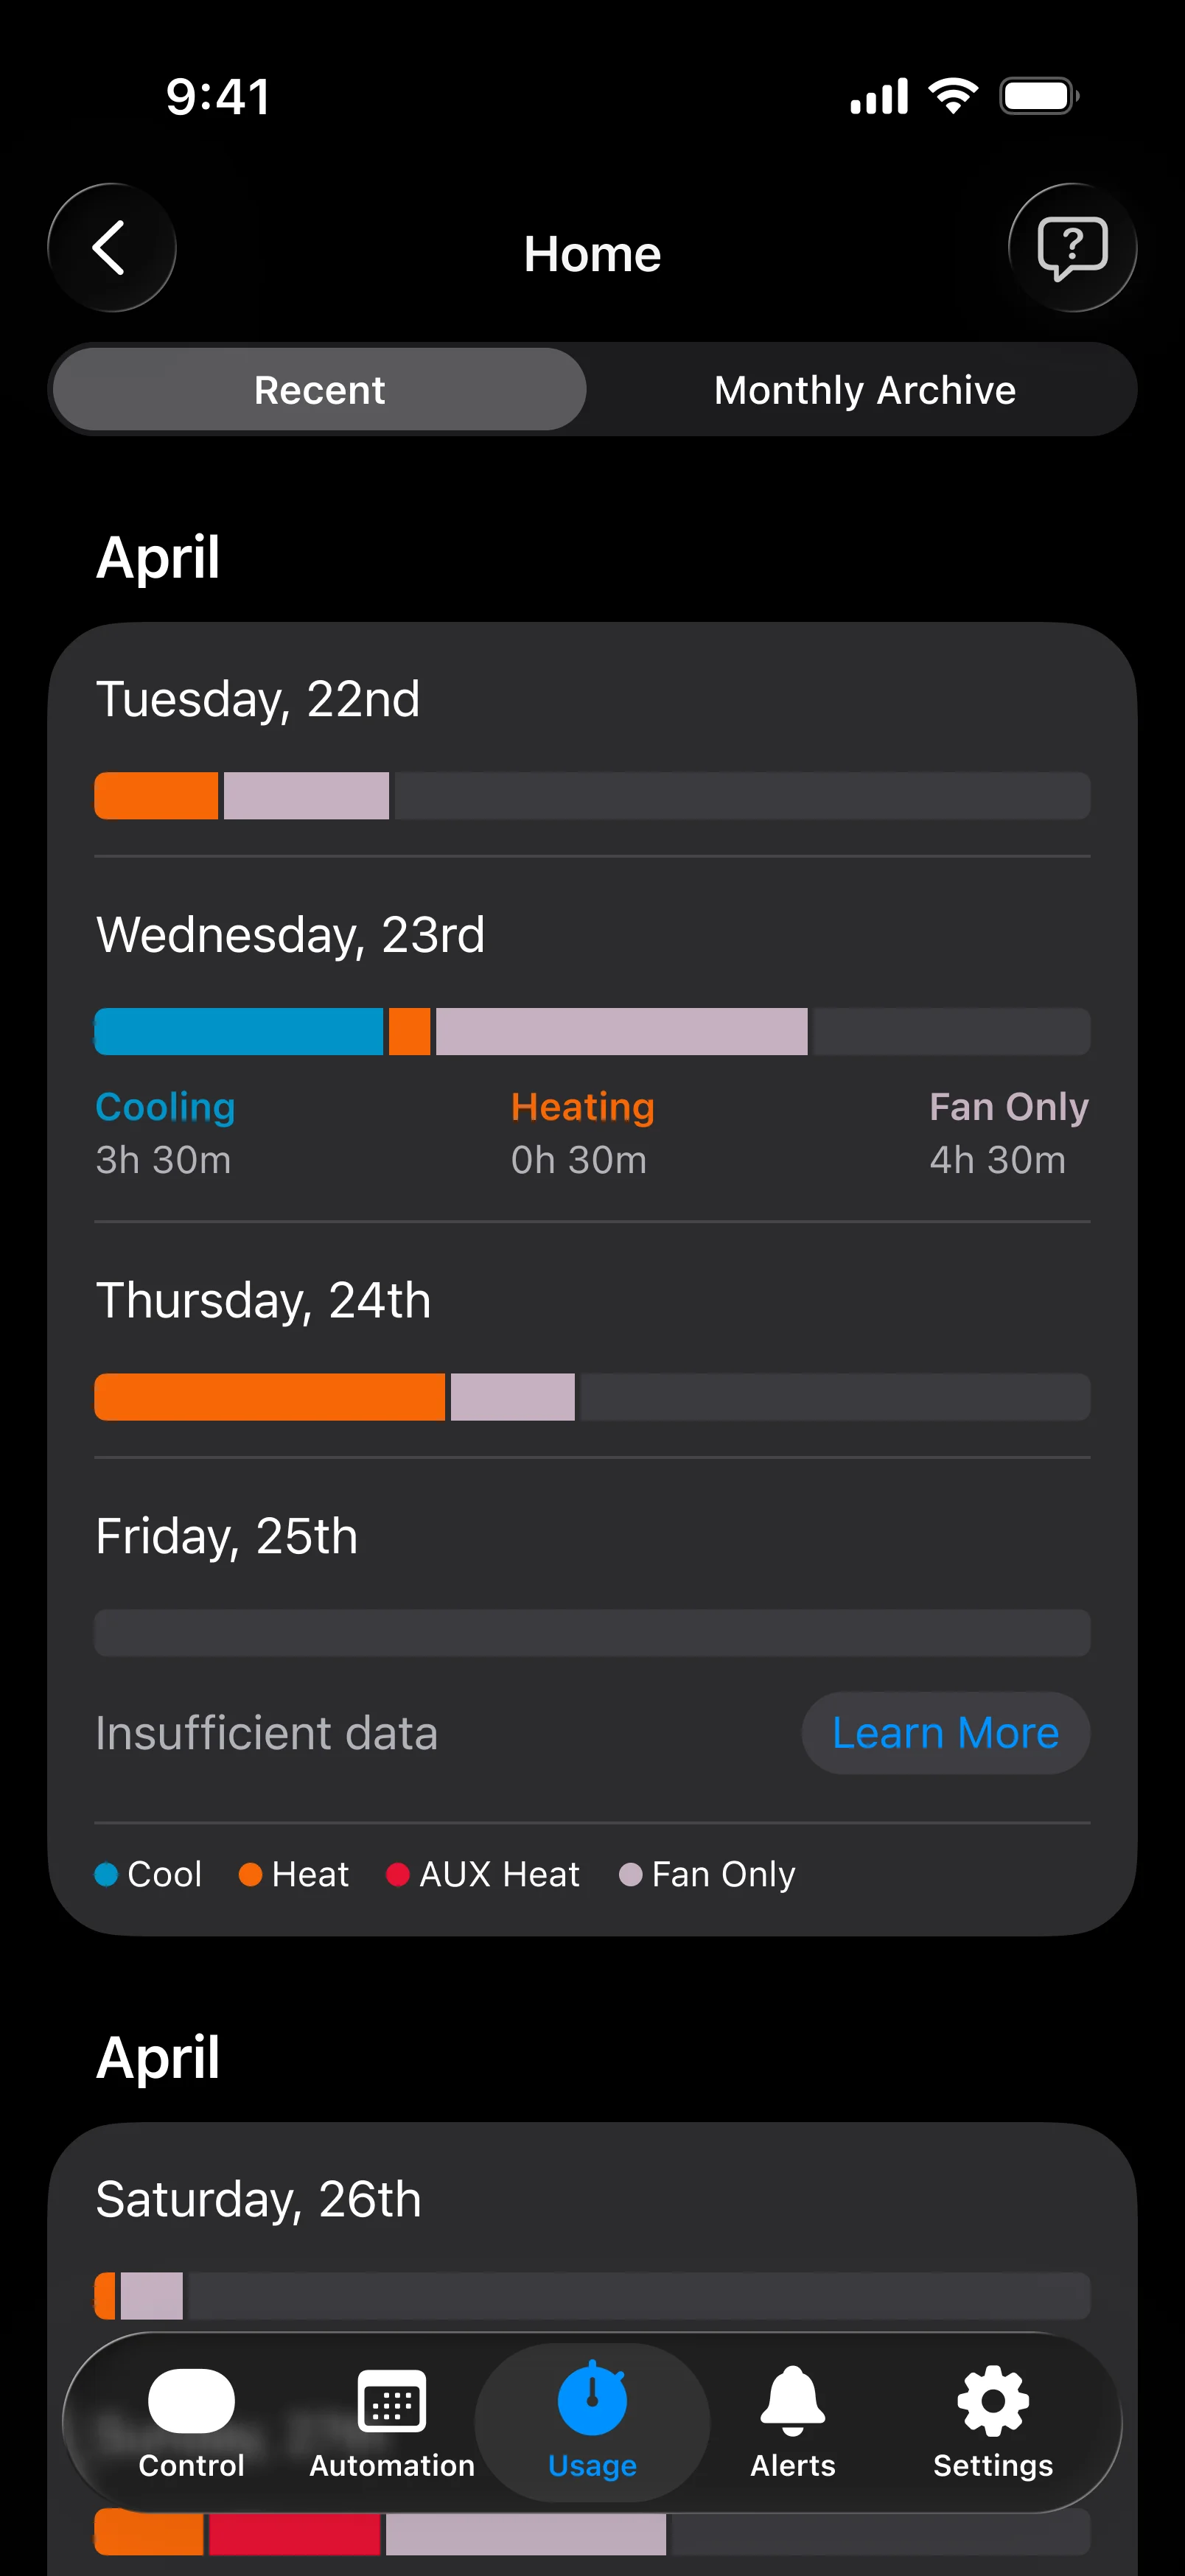
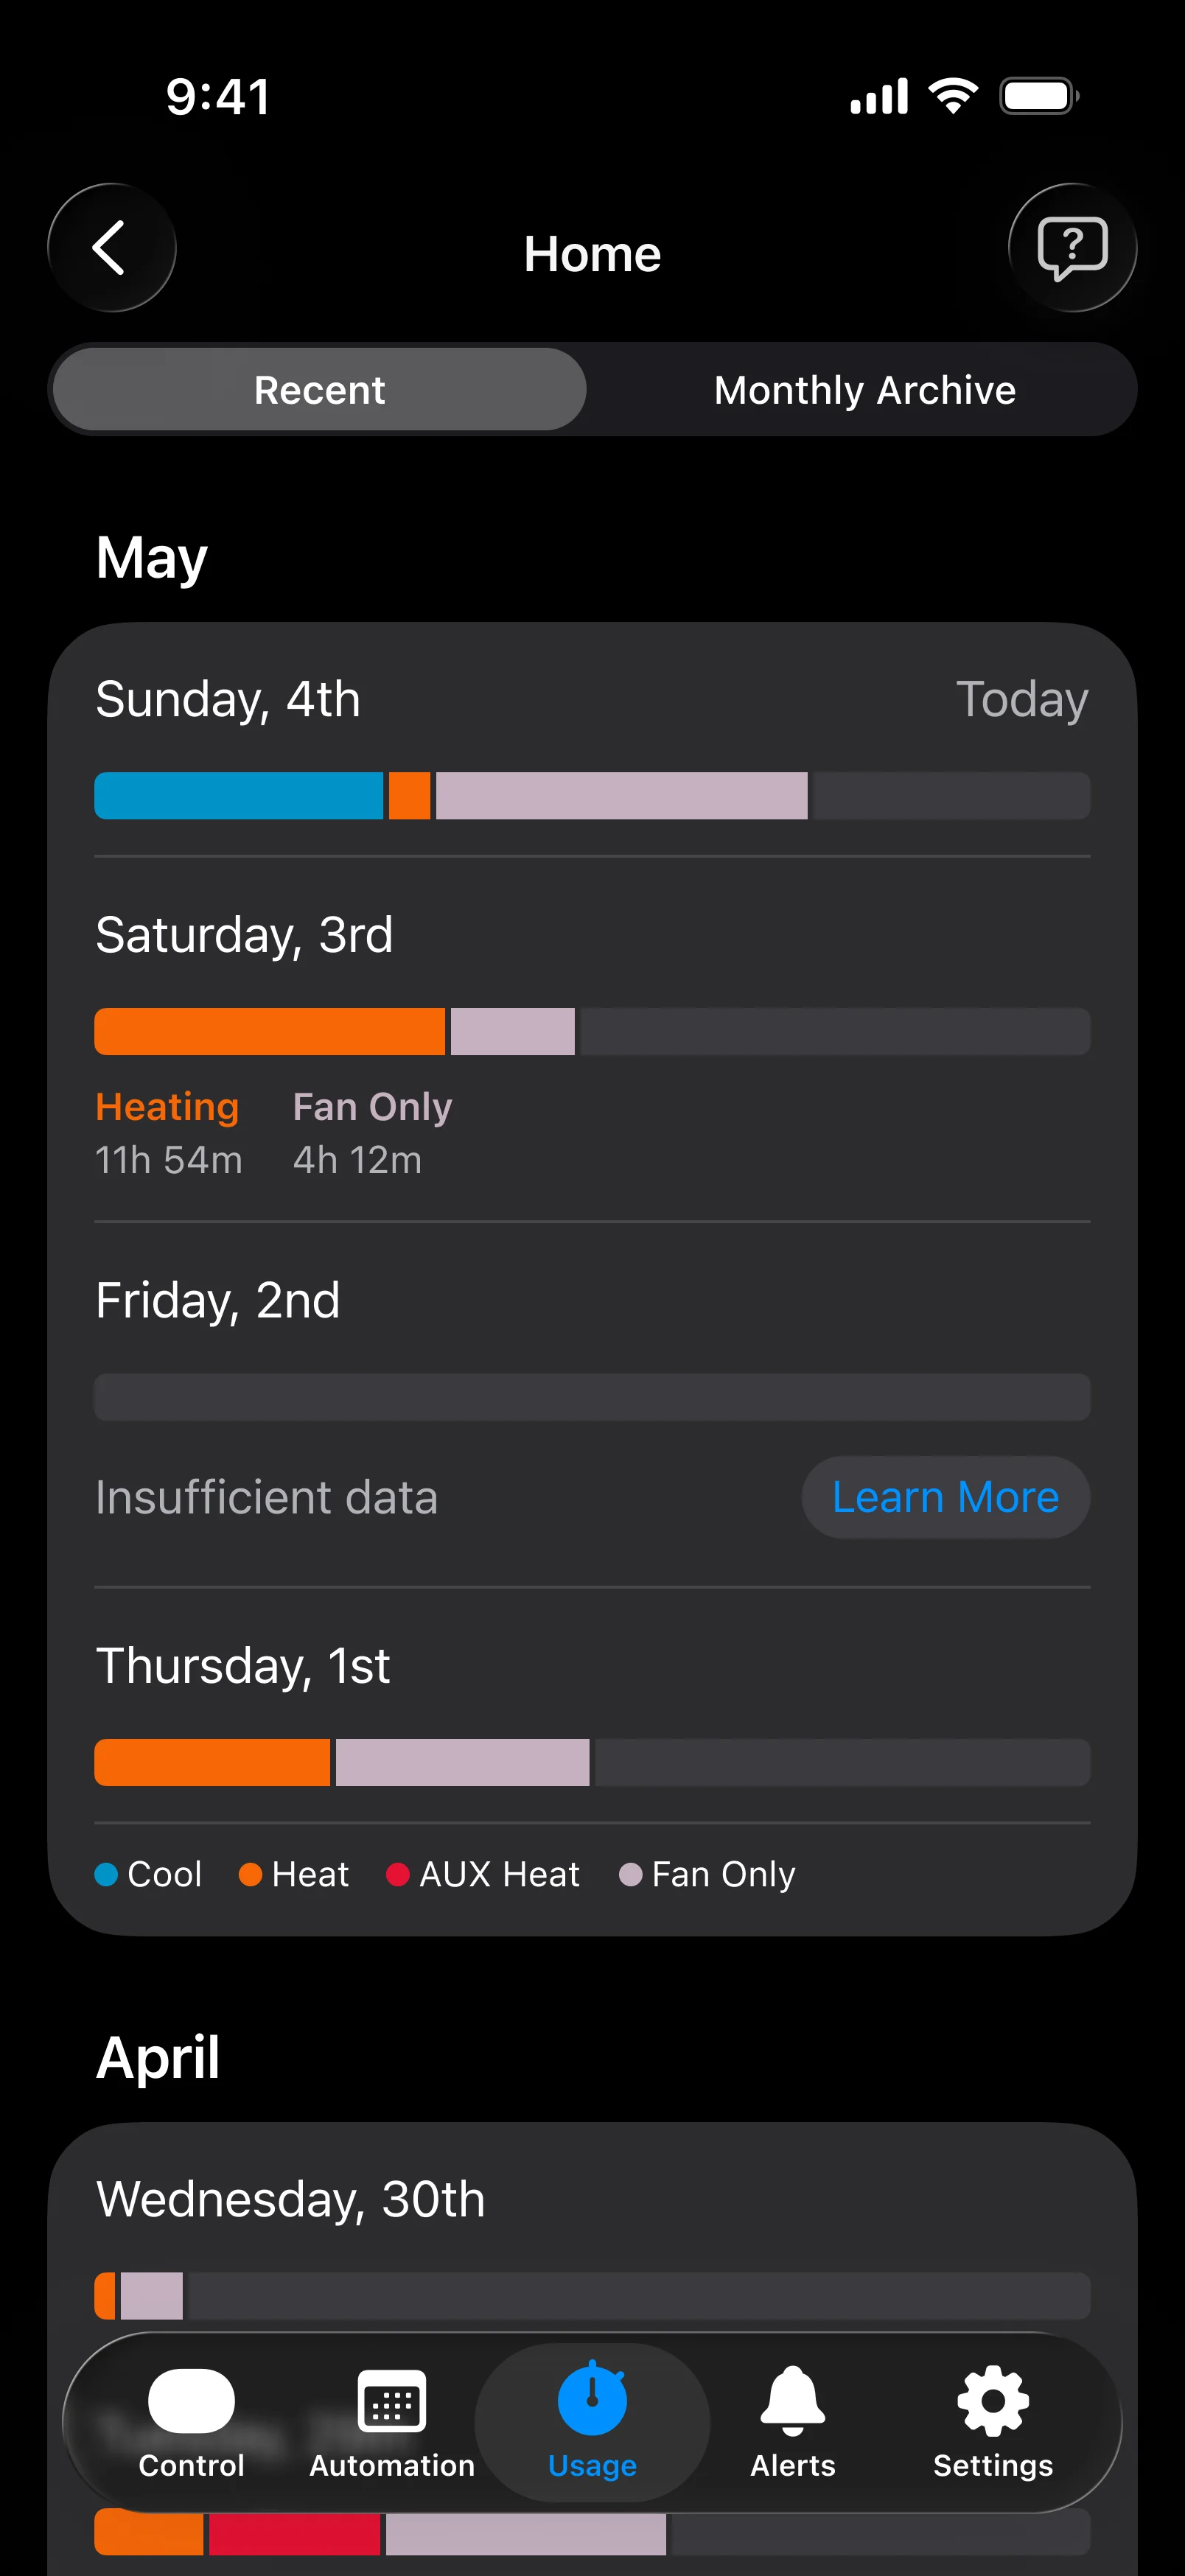
Add Android screenshots to phone carousel and fix autoplay timer resets.
Wire optimized Android screen assets, drop Offline from rotation, regenerate iOS Usage WebPs, and restart the screenshot timer on theme toggle and when a phone swap animation completes.

diff --git a/lib/phone-swap/phoneScreenshotSlides.ts b/lib/phone-swap/phoneScreenshotSlides.ts
@@ -21,8 +21,8 @@ export const PHONE_SCREENSHOT_SLIDES: readonly PhoneScreenshotSlide[] = [
     id: 'dashboard',
     label: 'Dashboard',
     android: {
-      light: '/models/Android.png',
-      dark: '/models/Android.png',
+      light: '/Screens/Android/Dashboard_light-optimized.webp',
+      dark: '/Screens/Android/Dashboard_dark-optimized.webp',
     },
     iphone: {
       light: '/Screens/iOS/Dashboard_light-optimized.webp',
@@ -33,8 +33,8 @@ export const PHONE_SCREENSHOT_SLIDES: readonly PhoneScreenshotSlide[] = [
     id: 'usage',
     label: 'Usage',
     android: {
-      light: '/models/Android.png',
-      dark: '/models/Android.png',
+      light: '/Screens/Android/Usage_light-optimized.webp',
+      dark: '/Screens/Android/Usage_dark-optimized.webp',
     },
     iphone: {
       light: '/Screens/iOS/Usage_light-optimized.webp',
@@ -45,24 +45,12 @@ export const PHONE_SCREENSHOT_SLIDES: readonly PhoneScreenshotSlide[] = [
     id: 'ec',
     label: 'Equipment',
     android: {
-      light: '/models/Android.png',
-      dark: '/models/Android.png',
+      light: '/Screens/Android/EC_light-optimized.webp',
+      dark: '/Screens/Android/EC_dark-optimized.webp',
     },
     iphone: {
       light: '/Screens/iOS/EC_light-optimized.webp',
       dark: '/Screens/iOS/EC_dark-optimized.webp',
-    },
-  },
-  {
-    id: 'offline',
-    label: 'Offline',
-    android: {
-      light: '/models/Android.png',
-      dark: '/models/Android.png',
-    },
-    iphone: {
-      light: '/Screens/iOS/Offline_light-optimized.webp',
-      dark: '/Screens/iOS/Offline_dark-optimized.webp',
     },
   },
 ]

diff --git a/lib/phone-swap/usePhoneScreenshotControls.ts b/lib/phone-swap/usePhoneScreenshotControls.ts
@@ -8,9 +8,16 @@ import {
   type PhoneScreenTheme,
 } from '@/lib/phone-swap/phoneScreenshotSlides'
 import { useTouch2CarouselPlayback } from '@/lib/touch2/useTouch2CarouselPlayback'
-import { useCallback, useEffect, useMemo, useRef, useState } from 'react'
+import { useCallback, useEffect, useMemo, useState } from 'react'
 
-export function usePhoneScreenshotControls() {
+type UsePhoneScreenshotControlsOptions = {
+  animating?: boolean
+}
+
+export function usePhoneScreenshotControls(
+  options: UsePhoneScreenshotControlsOptions = {},
+) {
+  const { animating = false } = options
   const { resolvedTheme } = useTheme()
   const isActive = useChapterActive()
   const [screenTheme, setScreenThemeState] =
@@ -25,20 +32,20 @@ export function usePhoneScreenshotControls() {
   const {
     index: slideIndex,
     selectIndex: selectSlide,
+    resetTimer,
     indicatorProgress,
     pauseHandlers,
-  } = useTouch2CarouselPlayback(slideCount, { isActive })
+  } = useTouch2CarouselPlayback(slideCount, {
+    isActive: isActive && !animating,
+  })
 
   useEffect(() => {
     setScreenThemeState(resolvedTheme)
   }, [resolvedTheme])
 
-  const slideIndexRef = useRef(slideIndex)
-  slideIndexRef.current = slideIndex
-
   useEffect(() => {
-    selectSlide(slideIndexRef.current)
-  }, [screenTheme, selectSlide])
+    resetTimer()
+  }, [screenTheme, resetTimer])
 
   const urls = useMemo(
     () => phoneScreenshotUrls(slideIndex, screenTheme),
@@ -88,5 +95,6 @@ export function usePhoneScreenshotControls() {
     selectSlide,
     toggleScreenTheme,
     setScreenTheme: setScreenThemeExplicit,
+    resetTimer,
   }
 }

diff --git a/lib/touch2/useTouch2CarouselPlayback.ts b/lib/touch2/useTouch2CarouselPlayback.ts
@@ -28,6 +28,7 @@ export function useTouch2CarouselPlayback(
   const [progress, setProgress] = useState(0)
   const [paused, setPaused] = useState(false)
   const [reducedMotion, setReducedMotion] = useState(false)
+  const [playbackEpoch, setPlaybackEpoch] = useState(0)
   const rafRef = useRef(0)
   const elapsedRef = useRef(0)
 
@@ -55,6 +56,12 @@ export function useTouch2CarouselPlayback(
     setProgress(0)
   }, [])
 
+  const resetTimer = useCallback(() => {
+    elapsedRef.current = 0
+    setProgress(0)
+    setPlaybackEpoch((epoch) => epoch + 1)
+  }, [])
+
   const shouldAutoPlay =
     autoPlay && isActive && !paused && !reducedMotion && count > 1
 
@@ -79,7 +86,7 @@ export function useTouch2CarouselPlayback(
 
     rafRef.current = requestAnimationFrame(tick)
     return () => cancelAnimationFrame(rafRef.current)
-  }, [shouldAutoPlay, index, count, autoPlayInterval])
+  }, [shouldAutoPlay, index, count, autoPlayInterval, playbackEpoch])
 
   useEffect(() => {
     if (!isActive || count <= 1) return
@@ -115,6 +122,7 @@ export function useTouch2CarouselPlayback(
   return {
     index,
     selectIndex,
+    resetTimer,
     go,
     reducedMotion,
     indicatorProgress,

diff --git a/components/PhoneSwap.tsx b/components/PhoneSwap.tsx
@@ -80,6 +80,7 @@ export function PhoneSwap({ liveScreen = false }: { liveScreen?: boolean }) {
     clampAnimSettings(DEFAULT_PHONE_SWAP_ANIM),
   )
   const [swapped, setSwapped] = useState(false)
+  const [animating, setAnimating] = useState(false)
   const [layout, setLayout] = useState<PhoneSwapLayout>(() => cloneLayout(PHONE_SWAP_LAYOUT))
   const [editFocus, setEditFocus] = useState<PhoneSwapEditFocus>('androidFocus')
   const [selectedDevice, setSelectedDevice] = useState<PhoneDevice>('android')
@@ -87,7 +88,9 @@ export function PhoneSwap({ liveScreen = false }: { liveScreen?: boolean }) {
   const [showGuides, setShowGuides] = useState(false)
   const topBarNav = useLayoutTopBarNav()
   const chapterActive = useChapterActive()
-  const screenshot = usePhoneScreenshotControls()
+  const screenshot = usePhoneScreenshotControls({ animating })
+  const resetTimerRef = useRef(screenshot.resetTimer)
+  resetTimerRef.current = screenshot.resetTimer
   const sceneLatchedRef = useRef(false)
   if (chapterActive || layoutMode || devToolsEnabled) {
     sceneLatchedRef.current = true
@@ -97,7 +100,6 @@ export function PhoneSwap({ liveScreen = false }: { liveScreen?: boolean }) {
   const [liveSnapshot, setLiveSnapshot] = useState<PhoneSwapSnapshot>(() =>
     cloneSnapshot(PHONE_SWAP_LAYOUT.androidFocus),
   )
-  const [animating, setAnimating] = useState(false)
   const [animSession, setAnimSession] = useState(0)
   const [backPhoneHover, setBackPhoneHover] = useState(false)
   const [liveScreenRect, setLiveScreenRect] = useState<DisplayScreenRect | null>(
@@ -144,6 +146,7 @@ export function PhoneSwap({ liveScreen = false }: { liveScreen?: boolean }) {
   const handleAnimationComplete = useCallback(() => {
     busy.current = false
     setAnimating(false)
+    resetTimerRef.current()
   }, [])
 
   const triggerSwap = useCallback(() => {